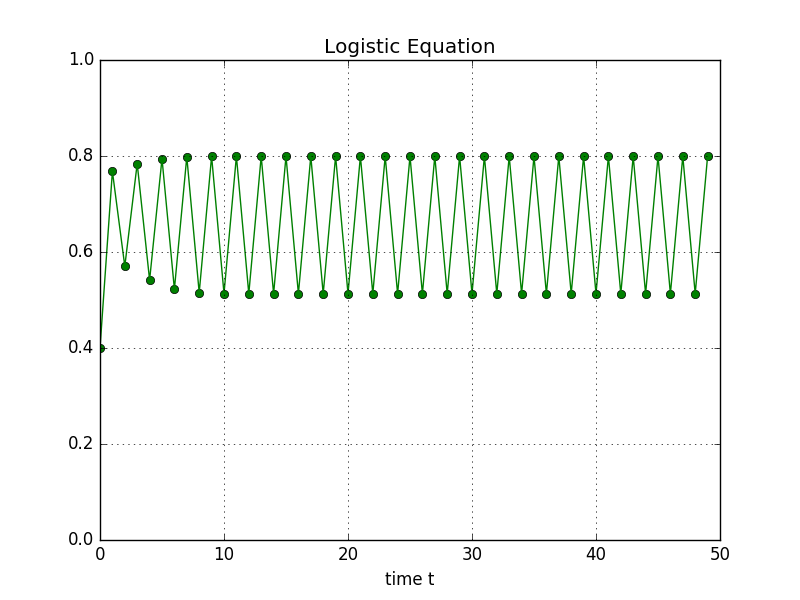
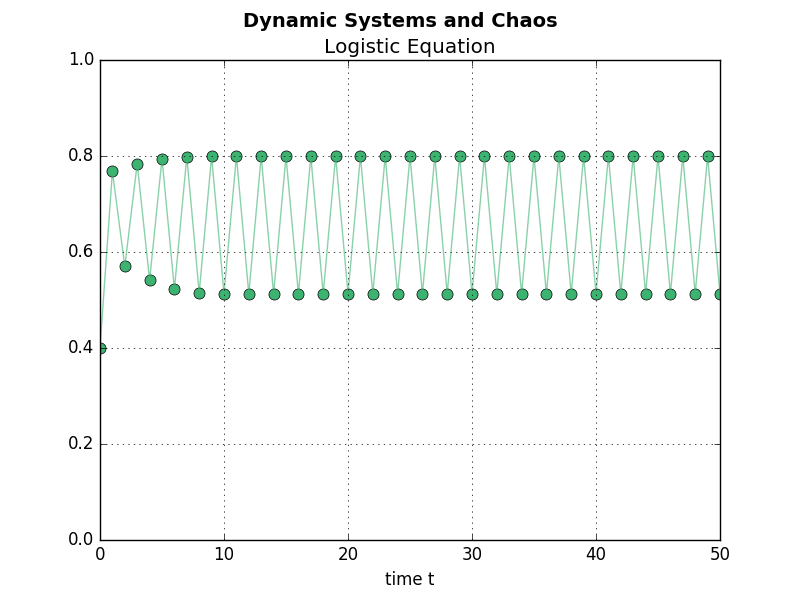
README.md: update the images using the new color schema

Changed region(s): [[0.125, 0.24, 0.9062, 0.51], [0.2812, 0.0, 0.7188, 0.06], [0.125, 0.57, 0.1562, 0.6]]

diff --git a/README.md b/README.md
@@ -14,6 +14,10 @@
  
 ![alt tag](https://github.com/madrisan/dynamic-systems-and-chaos/blob/master/plots/plot02_le-sdic.png)
 
+    ./legraph.py --x0 0.2 -r 3.6 -n 500
+
+![alt tag](https://github.com/madrisan/dynamic-systems-and-chaos/blob/master/plots/plot03_le-sdic-dots-and-lines.png)
+
     ./legraph.py --x0 0.2 -r 3.6 -n 5000 --dots-only
 
-![alt tag](https://github.com/madrisan/dynamic-systems-and-chaos/blob/master/plots/plot03_le-sdic-dotsonly.png)
+![alt tag](https://github.com/madrisan/dynamic-systems-and-chaos/blob/master/plots/plot04_le-sdic-dotsonly.png)
